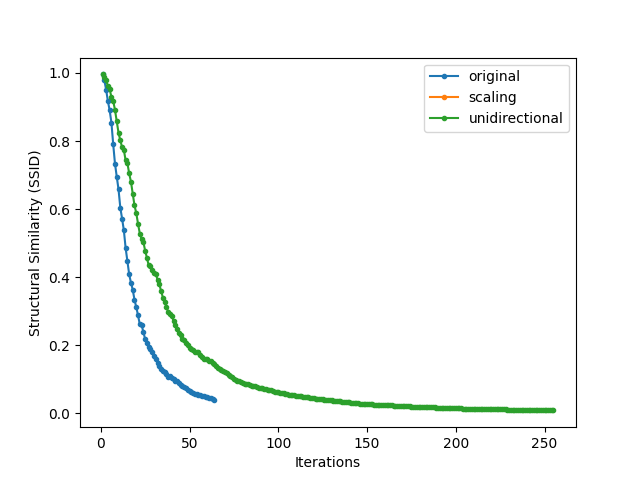
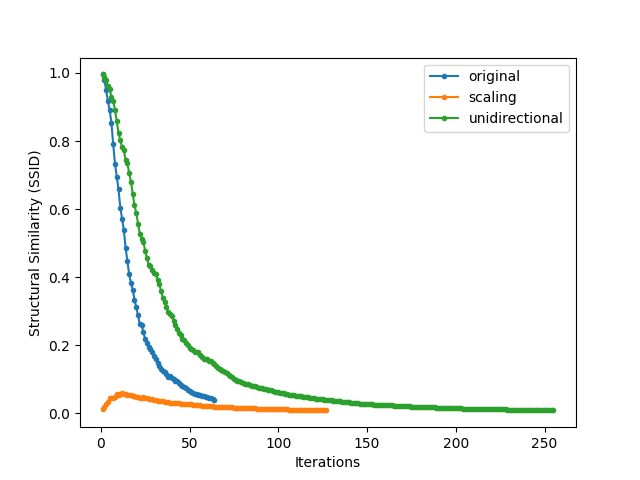
fix bug with scaling when there's only one pin in the image

Changed region(s): [[0.1562, 0.8125, 0.5312, 0.875]]

diff --git a/scaling_embed.py b/scaling_embed.py
@@ -34,8 +34,8 @@ def preprocess():
     is_rounded = get_is_rounded(processed_pixels_og, processed_pixels)[np.in1d(processed_pixels, mapped_values)]
     is_rounded = is_rounded.astype(np.bool)
 
-    processed_pixels += iterations
     processed_pixels = processed_pixels.astype(np.uint8)
+    processed_pixels += iterations
 
 
 def fill_buffer():

diff --git a/shared.py b/shared.py
@@ -81,7 +81,7 @@ def get_header_and_body(image: np.ndarray, header_size=HEADER_SIZE) -> (np.ndarr
 
 def get_mapped_values(og_max, scaled_max):
     scale_factor = scaled_max / og_max
-    og_values = np.arange(MAX_PIXEL_VALUE)
+    og_values = np.arange(MAX_PIXEL_VALUE + 1)
 
     scaled_values = og_values * scale_factor
     scaled_values -= EPS
